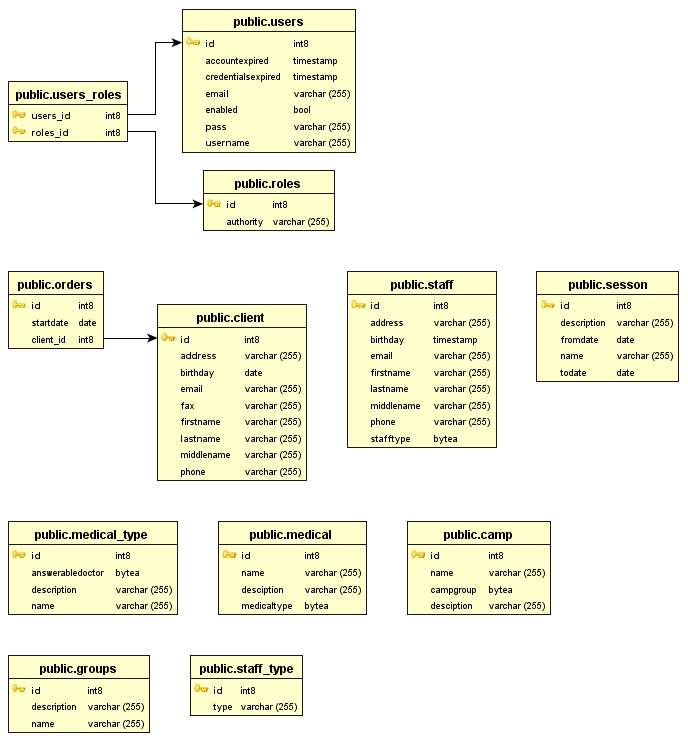
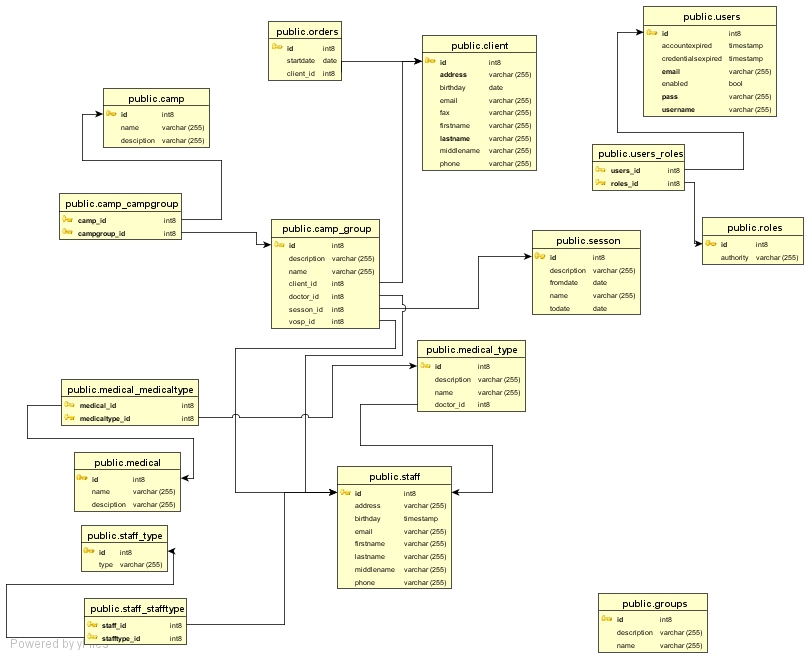
Update db, add database schema /conf/db.jpg

diff --git a/src/main/java/org/jobs/persistence/bean/Staff.java b/src/main/java/org/jobs/persistence/bean/Staff.java
@@ -2,12 +2,19 @@ package org.jobs.persistence.bean;
 
 import java.io.Serializable;
 import java.util.Date;
+import java.util.HashSet;
+import java.util.Set;
 
+import javax.persistence.CascadeType;
 import javax.persistence.Column;
 import javax.persistence.Entity;
+import javax.persistence.FetchType;
 import javax.persistence.GeneratedValue;
 import javax.persistence.GenerationType;
 import javax.persistence.Id;
+import javax.persistence.JoinColumn;
+import javax.persistence.JoinTable;
+import javax.persistence.OneToMany;
 import javax.persistence.Table;
 
 @Entity
@@ -33,8 +40,12 @@ public class Staff implements Serializable {
 	private String phone;
 	@Column(name = "birthday")
 	private Date birthday;
-	@Column(name = "staffType")
-	private StaffType staffType;
+	@OneToMany(cascade=CascadeType.ALL, fetch=FetchType.EAGER)
+	@JoinTable(name="staff_staffType", 
+			joinColumns={ @JoinColumn(name="staff_id")},
+			inverseJoinColumns={@JoinColumn(name="staffType_id")}
+	)	
+	private Set<StaffType> staffTypes = new HashSet<StaffType>();
 
 	public Staff() {
 		// TODO Auto-generated constructor stub
@@ -104,12 +115,12 @@ public class Staff implements Serializable {
 		this.birthday = birthday;
 	}
 
-	public StaffType getStaffType() {
-		return staffType;
+	public Set<StaffType> getStaffTypes() {
+		return staffTypes;
 	}
 
-	public void setStaffType(StaffType staffType) {
-		this.staffType = staffType;
+	public void setStaffTypes(Set<StaffType> staffTypes) {
+		this.staffTypes = staffTypes;
 	}
 
 }

diff --git a/src/main/java/org/jobs/persistence/bean/camp/Camp.java b/src/main/java/org/jobs/persistence/bean/camp/Camp.java
@@ -1,7 +1,14 @@
 package org.jobs.persistence.bean.camp;
 
+import java.util.HashSet;
+import java.util.Set;
+
+import javax.persistence.CascadeType;
 import javax.persistence.Column;
 import javax.persistence.Entity;
+import javax.persistence.FetchType;
+import javax.persistence.JoinColumn;
+import javax.persistence.JoinTable;
 import javax.persistence.OneToMany;
 import javax.persistence.Table;
 
@@ -16,19 +23,15 @@ public class Camp extends Service {
 	@Column(name="desciption")
 	private String descriptions;
 
-	@OneToMany
-	private CampGroup campGroup; 
+	@OneToMany(cascade=CascadeType.ALL, fetch=FetchType.EAGER)
+	@JoinTable(name="camp_campGroup", 
+			joinColumns={ @JoinColumn(name="camp_id")},
+			inverseJoinColumns={@JoinColumn(name="campGroup_id")}
+	)	
+	private Set<CampGroup> campGroups = new HashSet<CampGroup>(); 
 	
 	public Camp() {
 		// TODO Auto-generated constructor stub
-	}
-
-	public CampGroup getCampGroup() {
-		return campGroup;
-	}
-
-	public void setCampGroup(CampGroup campGroup) {
-		this.campGroup = campGroup;
 	}
 
 	public String getDescriptions() {
@@ -37,6 +40,14 @@ public class Camp extends Service {
 
 	public void setDescriptions(String descriptions) {
 		this.descriptions = descriptions;
+	}
+
+	public Set<CampGroup> getCampGroups() {
+		return campGroups;
+	}
+
+	public void setCampGroups(Set<CampGroup> campGroups) {
+		this.campGroups = campGroups;
 	}
 	
 }

diff --git a/src/main/java/org/jobs/persistence/bean/camp/CampGroup.java b/src/main/java/org/jobs/persistence/bean/camp/CampGroup.java
@@ -2,11 +2,16 @@ package org.jobs.persistence.bean.camp;
 
 import java.io.Serializable;
 
+import javax.persistence.CascadeType;
 import javax.persistence.Column;
 import javax.persistence.Entity;
+import javax.persistence.FetchType;
 import javax.persistence.GeneratedValue;
 import javax.persistence.GenerationType;
 import javax.persistence.Id;
+import javax.persistence.JoinColumn;
+import javax.persistence.ManyToOne;
+import javax.persistence.OneToMany;
 import javax.persistence.Table;
 
 import org.jobs.persistence.bean.Client;
@@ -23,14 +28,18 @@ public class CampGroup implements Serializable {
 	@GeneratedValue(strategy = GenerationType.SEQUENCE)
 	private Long id;
 	@Column(name="name")
-	private String name;
-	@Column(name="client")
-	private Client client;
-	@Column(name="sesson")
+	private String name;	
+	@ManyToOne(cascade=CascadeType.ALL, fetch=FetchType.EAGER)
+	@JoinColumn(name="client_id")
+	private Client client;	
+	@ManyToOne(cascade=CascadeType.ALL, fetch=FetchType.EAGER)
+	@JoinColumn(name="sesson_id")
 	private Sesson sesson;
-	@Column(name="vospit")
+	@ManyToOne(cascade=CascadeType.ALL, fetch=FetchType.EAGER)
+	@JoinColumn(name="vosp_id")
 	private Staff vosp;
-	@Column(name="doctor")
+	@ManyToOne(cascade=CascadeType.ALL, fetch=FetchType.EAGER)
+	@JoinColumn(name="doctor_id")
 	private Staff doctor;
 	@Column(name="description")
 	private String description;

diff --git a/src/main/java/org/jobs/persistence/bean/medical/Medical.java b/src/main/java/org/jobs/persistence/bean/medical/Medical.java
@@ -1,7 +1,14 @@
 package org.jobs.persistence.bean.medical;
 
+import java.util.HashSet;
+import java.util.Set;
+
+import javax.persistence.CascadeType;
 import javax.persistence.Column;
 import javax.persistence.Entity;
+import javax.persistence.FetchType;
+import javax.persistence.JoinColumn;
+import javax.persistence.JoinTable;
 import javax.persistence.OneToMany;
 import javax.persistence.Table;
 
@@ -16,12 +23,14 @@ public class Medical extends Service {
 	@Column(name="desciption")
 	private String descriptions;
 	
-	
-	@OneToMany
-	private MedicalType medicalType;	
+	@OneToMany(cascade=CascadeType.ALL, fetch=FetchType.EAGER)
+	@JoinTable(name="medical_medicalType", 
+			joinColumns={ @JoinColumn(name="medical_id")},
+			inverseJoinColumns={@JoinColumn(name="medicalType_id")}
+	)	
+	private Set<MedicalType> medicalTypes = new HashSet<MedicalType>();	
 	
 	public Medical() {
-		// TODO Auto-generated constructor stub
 	}
 
 
@@ -34,13 +43,13 @@ public class Medical extends Service {
 	}
 
 
-	public MedicalType getMedicalType() {
-		return medicalType;
+	public Set<MedicalType> getMedicalTypes() {
+		return medicalTypes;
 	}
 
 
-	public void setMedicalType(MedicalType medicalType) {
-		this.medicalType = medicalType;
+	public void setMedicalTypes(Set<MedicalType> medicalTypes) {
+		this.medicalTypes = medicalTypes;
 	}
-
+	
 }

diff --git a/src/main/java/org/jobs/persistence/bean/medical/MedicalType.java b/src/main/java/org/jobs/persistence/bean/medical/MedicalType.java
@@ -2,11 +2,16 @@ package org.jobs.persistence.bean.medical;
 
 import java.io.Serializable;
 
+import javax.persistence.CascadeType;
 import javax.persistence.Column;
 import javax.persistence.Entity;
+import javax.persistence.FetchType;
 import javax.persistence.GeneratedValue;
 import javax.persistence.GenerationType;
 import javax.persistence.Id;
+import javax.persistence.JoinColumn;
+import javax.persistence.ManyToOne;
+import javax.persistence.OneToMany;
 import javax.persistence.Table;
 
 import org.jobs.persistence.bean.Staff;
@@ -27,7 +32,8 @@ public class MedicalType implements Serializable {
 	@Column(name="description")
 	private String description;
 	
-	@Column(name="answerableDoctor")
+	@ManyToOne(cascade=CascadeType.ALL, fetch=FetchType.EAGER)
+	@JoinColumn(name="doctor_id")
 	private Staff answerable_doctor;
 	
 	
